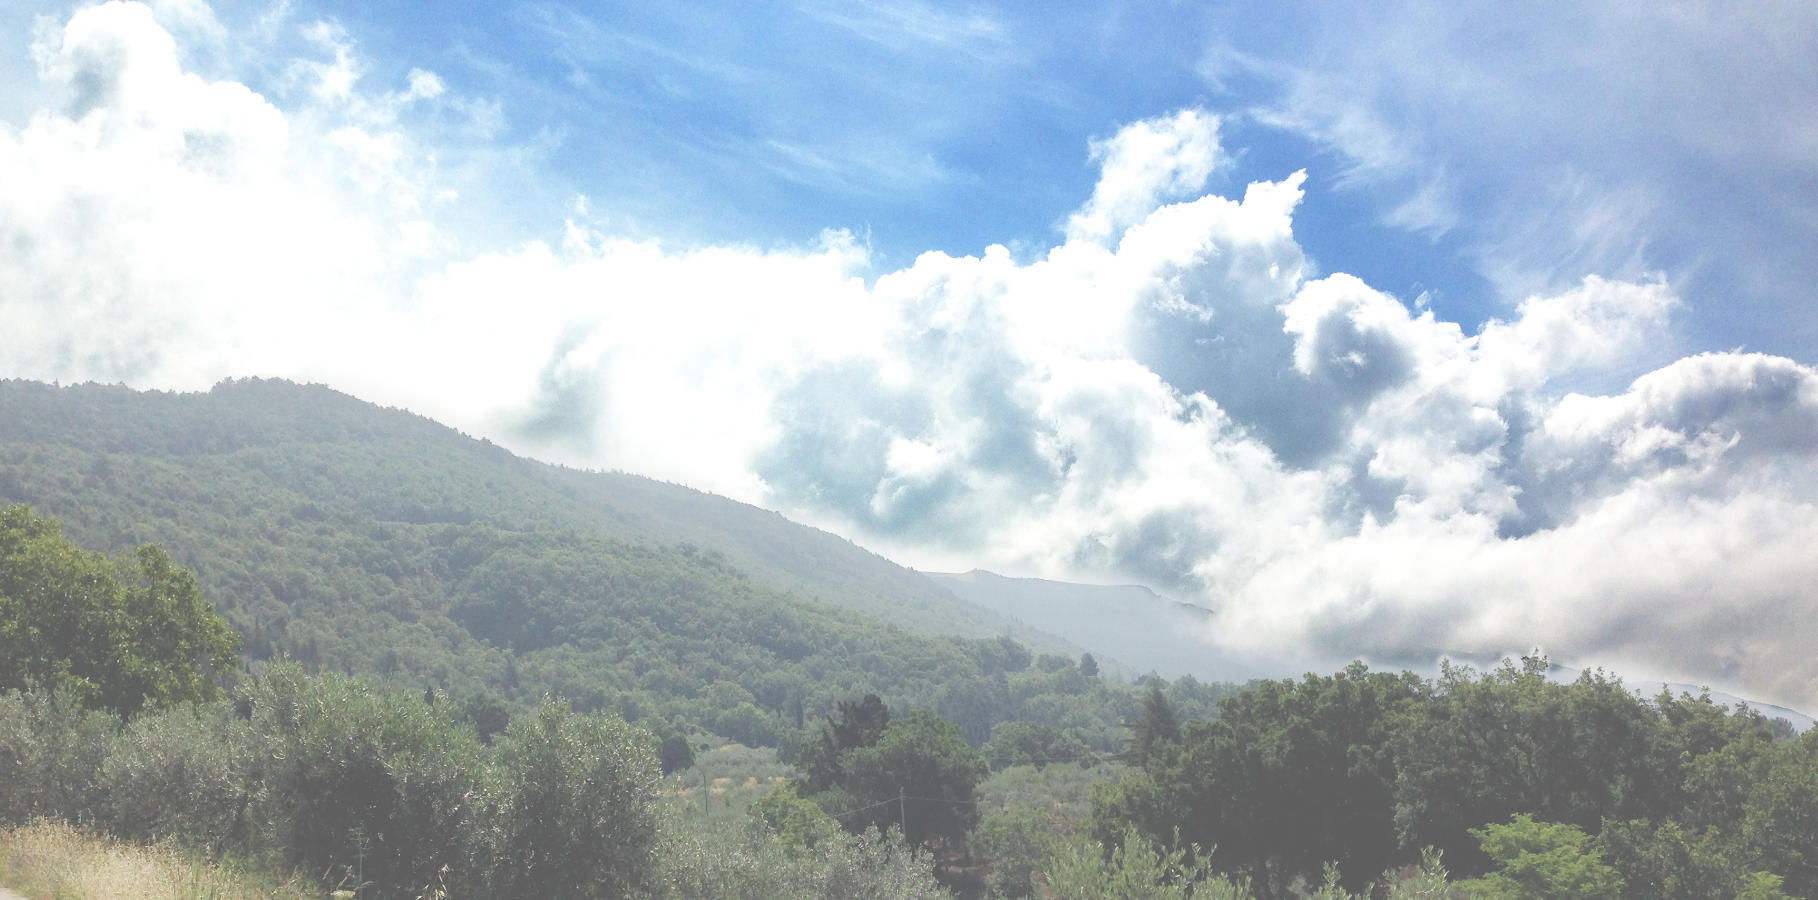
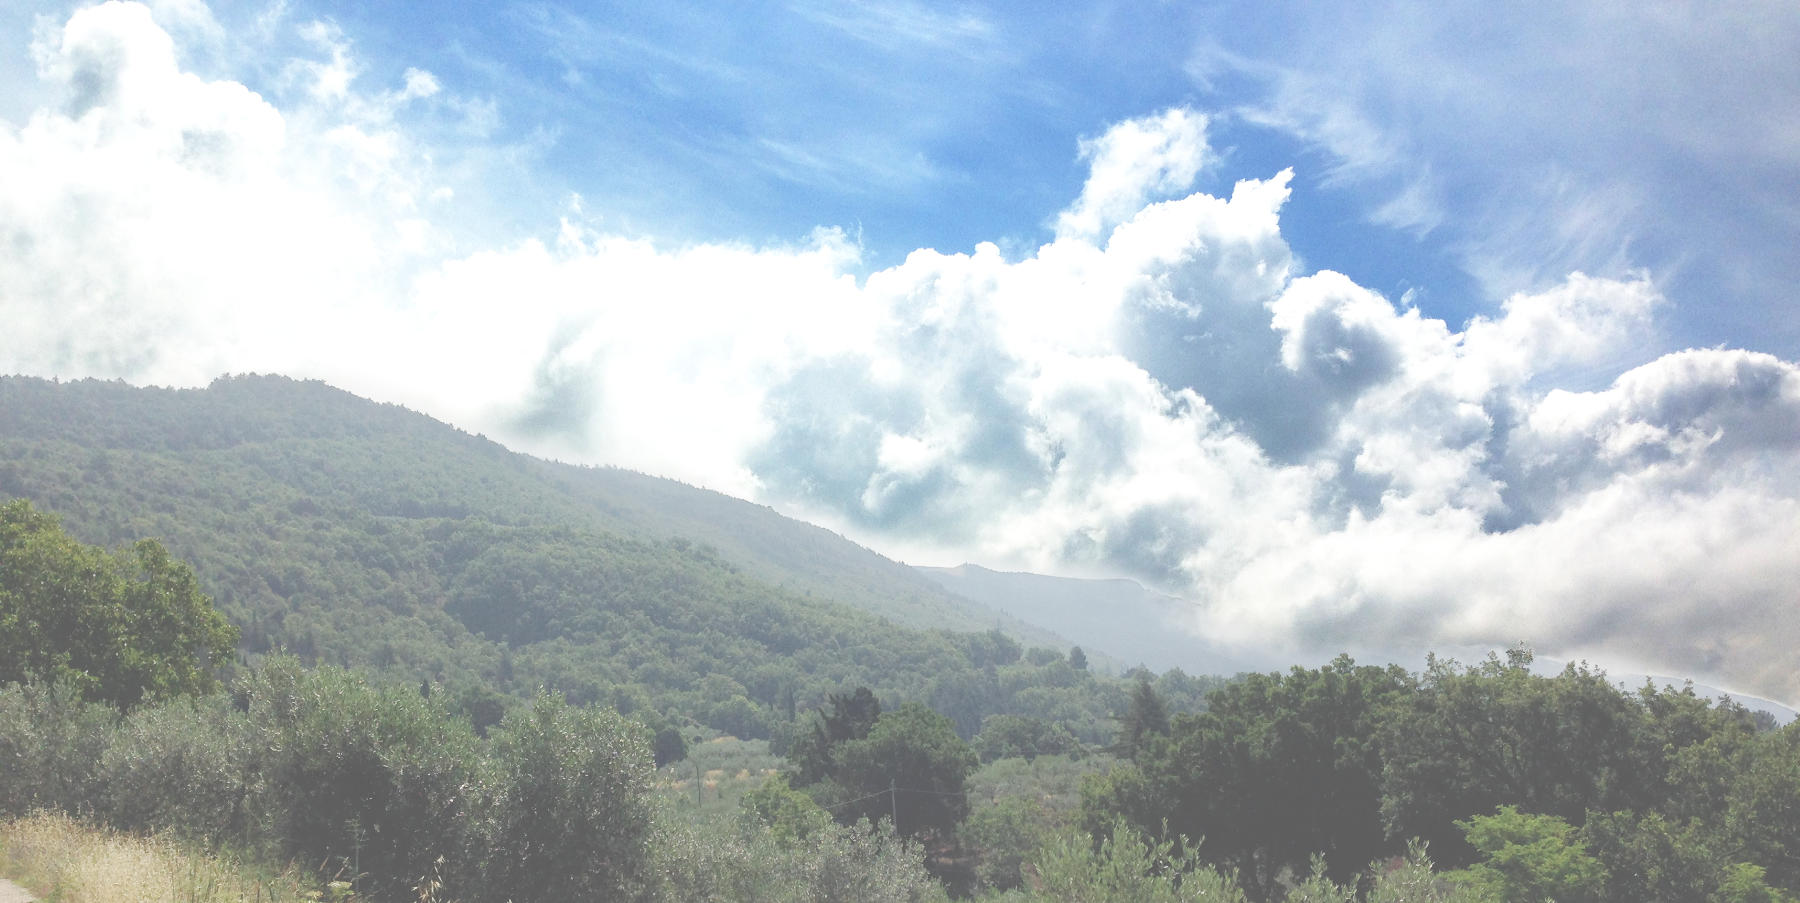
Improve background images.

diff --git a/static/style/styles.css b/static/style/styles.css
@@ -6,17 +6,17 @@
   src: url('../fonts/used/foxinthesnow/FoxInTheSnow.ttf'), url('../fonts/used/foxinthesnow/FoxInTheSnow.eot');/* IE */
 }
 .banner {
-  background: #000000 url('../images/homepage-bg-md.jpg') center center no-repeat;
+  background: #dedede url('../images/homepage-bg-md.jpg') center center no-repeat;
   background-size: cover;
 }
 @media screen and (max-width: 768px) {
   .banner {
-    background: #000000 url('../images/homepage-bg-sm.jpg') center center no-repeat;
+    background: #dedede url('../images/homepage-bg-sm.jpg') center center no-repeat;
   }
 }
 @media screen and (min-width: 992px) {
   .banner {
-    background: #000000 url('../images/homepage-bg-lg.jpg') center center no-repeat;
+    background: #dedede url('../images/homepage-bg-lg.jpg') center center no-repeat;
   }
 }
 .banner-site-title {

diff --git a/static/style/homepage.less b/static/style/homepage.less
@@ -7,12 +7,12 @@
   // background: #79c296;
 
   //Adapt the image size to the screen size.
-  background: rgba(0,0,0,255) url('../images/homepage-bg-md.jpg') center center no-repeat;
+  background: #dedede url('../images/homepage-bg-md.jpg') center center no-repeat;
   @media screen and (max-width: 768px) {
-    background: rgba(0,0,0,255) url('../images/homepage-bg-sm.jpg') center center no-repeat;
+    background: #dedede url('../images/homepage-bg-sm.jpg') center center no-repeat;
   }
   @media screen and (min-width: 992px) {
-    background: rgba(0,0,0,255) url('../images/homepage-bg-lg.jpg') center center no-repeat;
+    background: #dedede url('../images/homepage-bg-lg.jpg') center center no-repeat;
   }
   background-size: cover;
 }
